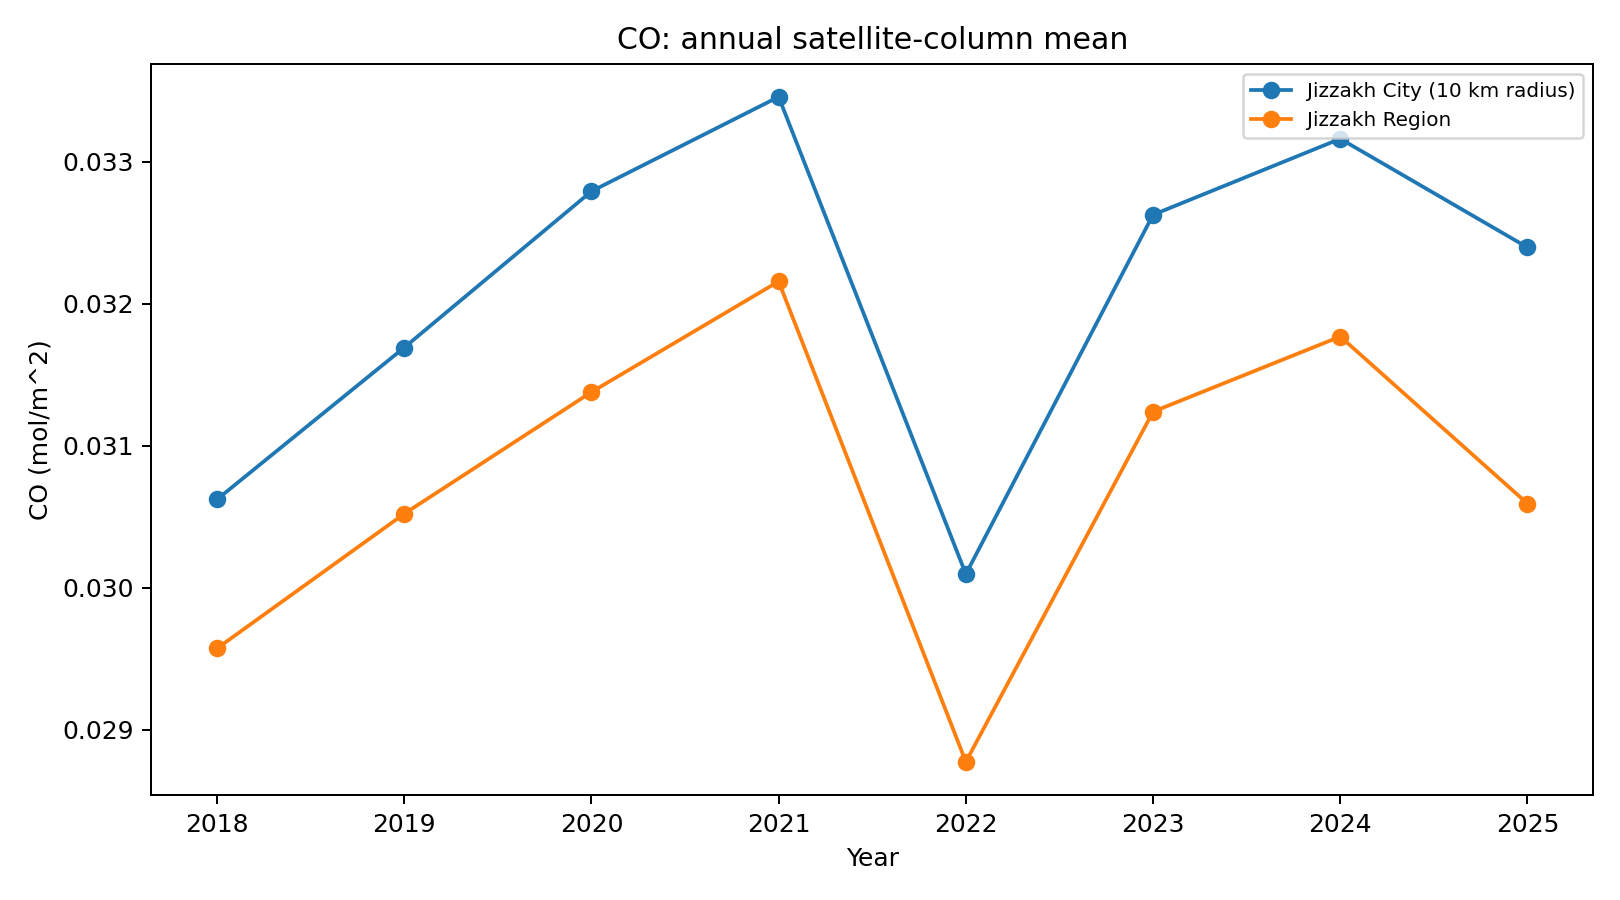
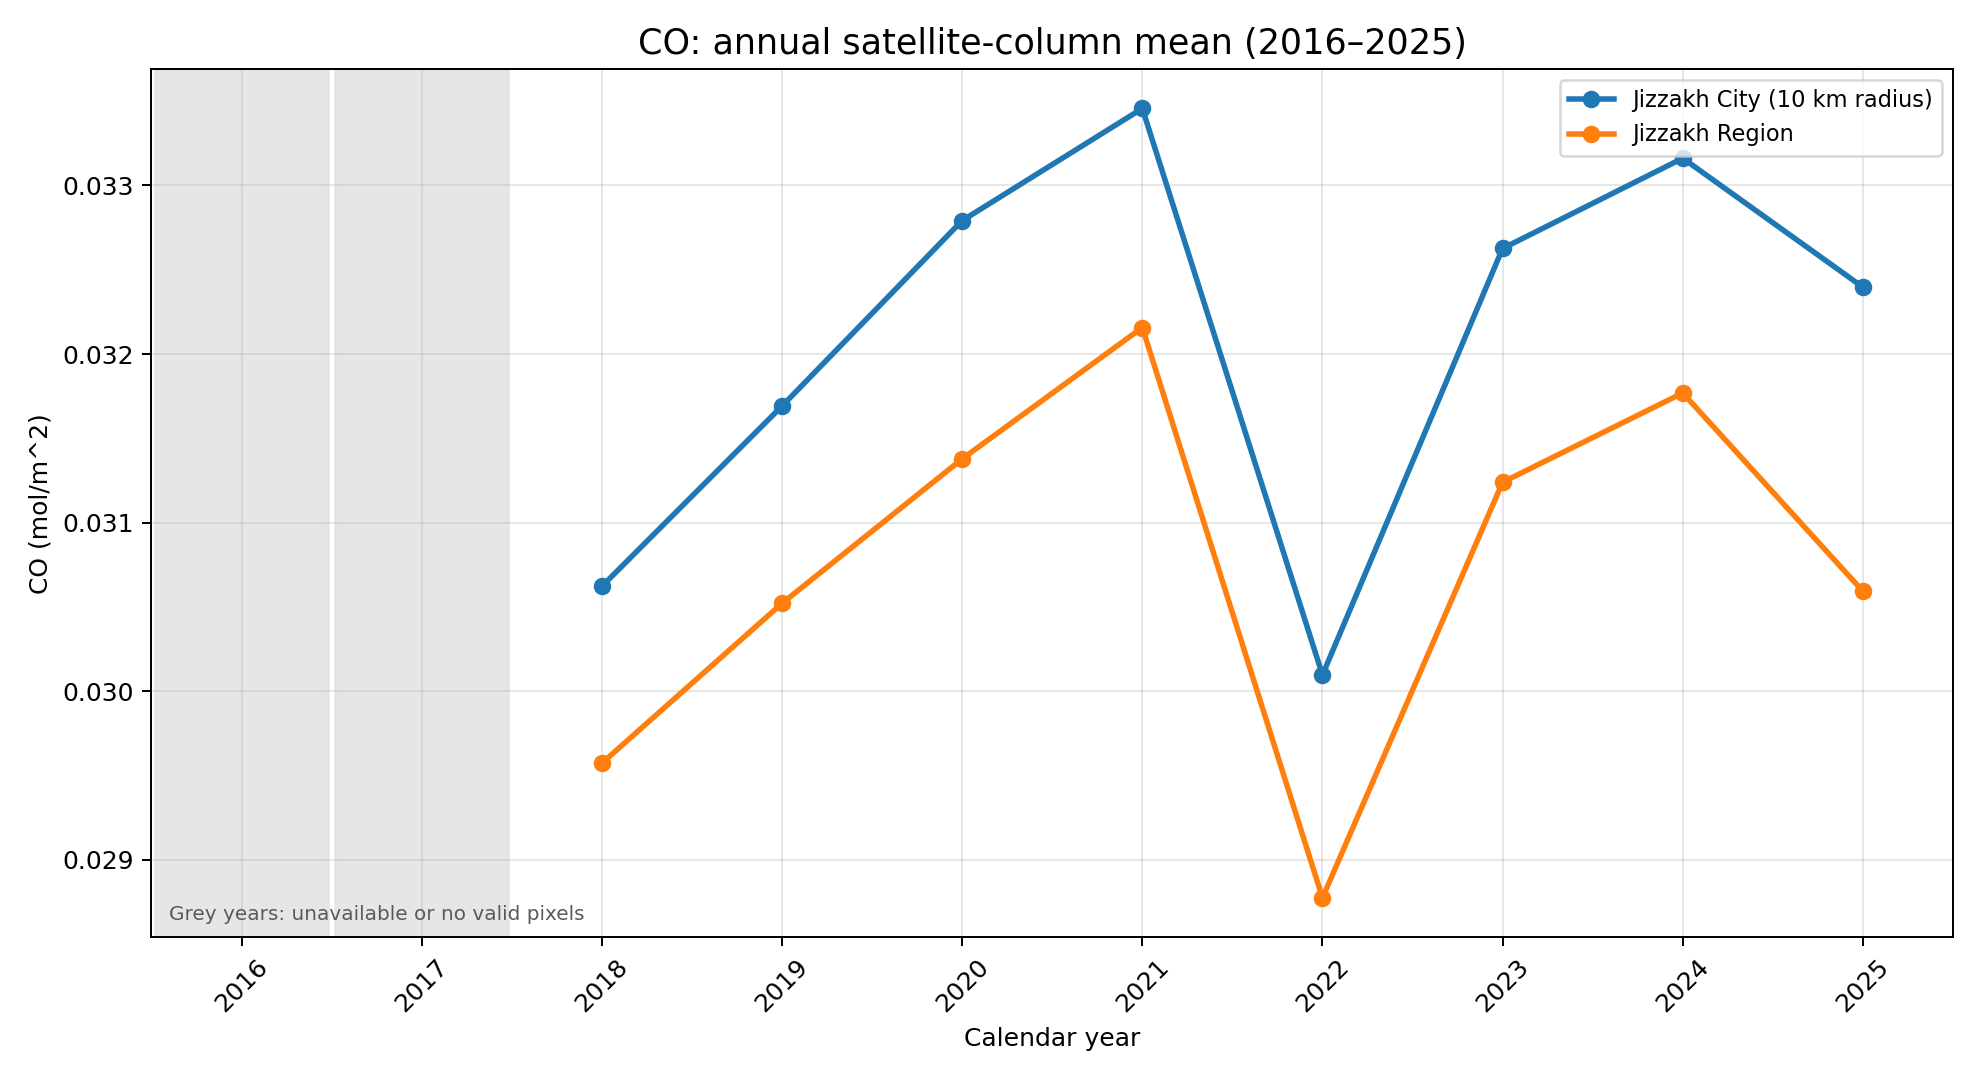
Add annual trends table and update report metadata for Jizzakh air quality analysis

diff --git a/jizzakh_air_quality_analysis.py b/jizzakh_air_quality_analysis.py
@@ -207,15 +207,55 @@ def download_maps(composites, region, metadata):
 
 
 def make_charts(df):
-    for code, group in df[df["status"] == "available"].groupby("pollutant"):
-        fig, ax = plt.subplots(figsize=(9, 5))
+    chart_data = df.copy()
+    chart_data["year"] = pd.to_numeric(chart_data["year"], errors="coerce")
+    chart_data["mean"] = pd.to_numeric(chart_data["mean"], errors="coerce")
+    for code, group in chart_data.groupby("pollutant"):
+        fig, ax = plt.subplots(figsize=(11, 6))
+        plotted = 0
         for area, values in group.groupby("area"):
-            ax.plot(values["year"], values["mean"], marker="o", label=area)
-        ax.set(title=f"{code}: annual satellite-column mean", xlabel="Year", ylabel=f"{code} ({group['unit'].iloc[0]})")
-        ax.legend(fontsize=8)
+            values = values.sort_values("year")
+            valid = values[(values["status"] == "available") & values["mean"].notna()]
+            if valid.empty:
+                continue
+            ax.plot(valid["year"].to_numpy(), valid["mean"].to_numpy(),
+                    linewidth=2.2, marker="o", markersize=6, label=area)
+            plotted += 1
+        if plotted == 0:
+            raise ValueError(f"No valid annual values available to plot for {code}")
+        for year in range(START_YEAR, END_YEAR + 1):
+            year_rows = group[group["year"] == year]
+            if year_rows.empty or not year_rows["status"].eq("available").any():
+                ax.axvspan(year - 0.48, year + 0.48, color="0.88", alpha=0.8, zorder=0)
+        ax.set_title(f"{code}: annual satellite-column mean ({START_YEAR}–{END_YEAR})", fontsize=14)
+        ax.set_xlabel("Calendar year")
+        ax.set_ylabel(f"{code} ({group['unit'].iloc[0]})")
+        ax.set_xlim(START_YEAR - 0.5, END_YEAR + 0.5)
+        ax.set_xticks(range(START_YEAR, END_YEAR + 1))
+        ax.tick_params(axis="x", rotation=45)
+        ax.grid(True, alpha=0.3)
+        ax.legend(fontsize=9, loc="best")
+        ax.text(0.01, 0.02, "Grey years: unavailable or no valid pixels",
+                transform=ax.transAxes, fontsize=8, color="0.35")
+        if group["unit"].iloc[0] == "mol/m^2":
+            ax.ticklabel_format(axis="y", style="sci", scilimits=(-3, 3))
         fig.tight_layout()
         fig.savefig(MAPS / f"{code}_annual_trend_city_region.png", dpi=180)
         plt.close(fig)
+
+    keys = ["year", "pollutant", "unit"]
+    trend_table = chart_data[keys].drop_duplicates()
+    for area_name, prefix in [("Jizzakh City (10 km radius)", "city"),
+                              ("Jizzakh Region", "region")]:
+        area_table = chart_data[chart_data["area"] == area_name][
+            keys + ["mean", "spatial_stddev", "status", "image_count"]
+        ].rename(columns={
+            "mean": f"{prefix}_mean", "spatial_stddev": f"{prefix}_spatial_stddev",
+            "status": f"{prefix}_status", "image_count": f"{prefix}_image_count",
+        })
+        trend_table = trend_table.merge(area_table, on=keys, how="left")
+    trend_table = trend_table.sort_values(["pollutant", "year"])
+    trend_table.to_csv(OUT / "annual_trends_table.csv", index=False)
 
 
 def write_report(df, metadata, map_records, gaul_name):
@@ -255,6 +295,7 @@ def write_report(df, metadata, map_records, gaul_name):
         "- Ground-monitor validation, meteorological normalization, seasonal analysis and uncertainty-aware trend tests are recommended before policy use.", "",
         "## Output inventory", "",
         "- `annual_city_region_statistics.csv`: annual values, image counts, and explicit no-data rows.",
+        "- `annual_trends_table.csv`: one row per pollutant and year with paired city/region values, uncertainty fields, image counts, and quality status.",
         "- `period_summary.csv`: compact city/region summary.",
         "- `satellite_metadata.json`: collection, band, instrument, units, projection and processing metadata.",
         "- `maps/`: long-period spatial maps and annual city-versus-region trend figures.",

diff --git a/outputs/jizzakh_air_quality_2016_2025/JIZZAKH_AIR_QUALITY_REPORT.md b/outputs/jizzakh_air_quality_2016_2025/JIZZAKH_AIR_QUALITY_REPORT.md
@@ -1,6 +1,6 @@
 # Jizzakh air-quality satellite analysis, 2016–2025
 
-Generated: 2026-08-07T16:37:12+05:00
+Generated: 2026-08-07T16:48:52+05:00
 
 ## Executive summary
 
@@ -61,6 +61,7 @@ No quality-assurance band was applied because the Earth Engine Level-3 ingestion
 ## Output inventory
 
 - `annual_city_region_statistics.csv`: annual values, image counts, and explicit no-data rows.
+- `annual_trends_table.csv`: one row per pollutant and year with paired city/region values, uncertainty fields, image counts, and quality status.
 - `period_summary.csv`: compact city/region summary.
 - `satellite_metadata.json`: collection, band, instrument, units, projection and processing metadata.
 - `maps/`: long-period spatial maps and annual city-versus-region trend figures.
